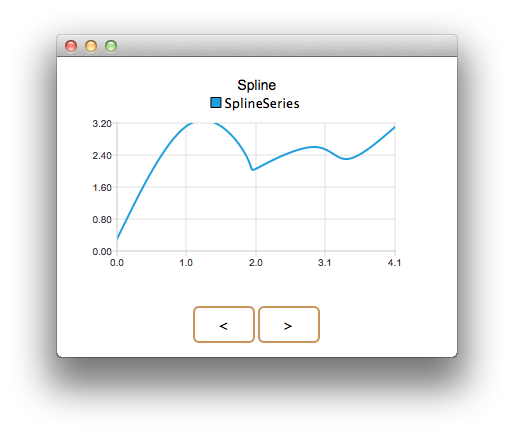
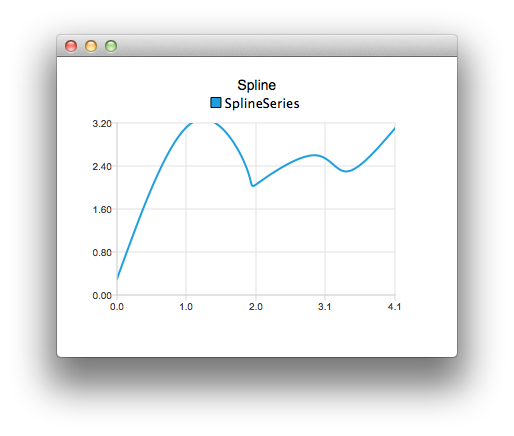
Documentation of QML ChartView, Axis and Legend

diff --git a/demos/qmlchart/qml/qmlchart/main.qml b/demos/qmlchart/qml/qmlchart/main.qml
@@ -28,61 +28,63 @@ Rectangle {
 
     Loader {
         id: loader
-        anchors.top: parent.top
-        anchors.bottom: buttons.top
-        anchors.left: parent.left
-        anchors.right: parent.right
+        anchors.fill: parent
         source: "View" + viewNumber + ".qml";
     }
 
-    Row {
-        id: buttons
-        anchors.bottom: parent.bottom
-        anchors.bottomMargin: 15
-        anchors.horizontalCenter: parent.horizontalCenter
-        spacing: 5
+    Rectangle {
+        id: infoText
+        anchors.centerIn: parent
+        width: parent.width
+        height: 40
+        color: "black"
+        Text {
+            color: "white"
+            anchors.centerIn: parent
+            text: "Use left and right arrow keys to navigate between chart types"
+        }
 
-        Rectangle {
-            height: 35
-            width: 60
-            border.color: "#c8955c"
-            border.width: 2
-            radius: 5
-            Text {
-                anchors.centerIn: parent
-                text: "<"
+        Behavior on opacity {
+            NumberAnimation { duration: 400 }
+        }
+    }
+
+    MouseArea {
+        focus: true
+        anchors.fill: parent
+        onClicked: {
+            if (infoText.opacity > 0) {
+                infoText.opacity = 0.0;
+            } else {
+                nextView();
             }
-            MouseArea {
-                anchors.fill: parent
-                onClicked: {
-                    var i = viewNumber - 1;
-                    if (i <= 0)
-                        viewNumber = 9;
-                    else
-                        viewNumber = i;
+        }
+        Keys.onPressed: {
+            if (infoText.opacity > 0) {
+                infoText.opacity = 0.0;
+            } else {
+                if (event.key == Qt.Key_Left) {
+                    previousView();
+                } else {
+                    nextView();
                 }
             }
         }
-        Rectangle {
-            height: 35
-            width: 60
-            border.color: "#c8955c"
-            border.width: 2
-            radius: 5
-            Text {
-                anchors.centerIn: parent
-                text: ">"
-            }
-            MouseArea {
-                anchors.fill: parent
-                onClicked: {
-                    var i = viewNumber + 1;
-                    if (i > 9)
-                        viewNumber = 1;
-                    else
-                        viewNumber = i;
-                }
-            }
-        }
+    }
+
+    function nextView() {
+        var i = viewNumber + 1;
+        if (i > 9)
+            viewNumber = 1;
+        else
+            viewNumber = i;
+    }
+
+    function previousView() {
+        var i = viewNumber - 1;
+        if (i <= 0)
+            viewNumber = 9;
+        else
+            viewNumber = i;
     }
 }

diff --git a/demos/qmlchart/qml/qmlchart/View5.qml b/demos/qmlchart/qml/qmlchart/View5.qml
@@ -51,6 +51,8 @@ Rectangle {
             XyPoint { x: 2.2; y: 2.9 }
             XyPoint { x: 2.4; y: 2.7 }
             XyPoint { x: 2.67; y: 2.65 }
+    //![2]
         }
     }
+    //![2]
 }

diff --git a/plugins/declarative/declarativescatterseries.cpp b/plugins/declarative/declarativescatterseries.cpp
@@ -28,15 +28,14 @@ QTCOMMERCIALCHART_BEGIN_NAMESPACE
 /*!
     \qmlclass ScatterSeries QScatterSeries
 
-    \section1 Example Usage
+    The following QML shows how to create a chart with two simple scatter series:
+    \snippet ../demos/qmlchart/qml/qmlchart/View5.qml 1
+    \snippet ../demos/qmlchart/qml/qmlchart/View5.qml 2
 
     \beginfloatleft
     \image demos_qmlchart5.png
     \endfloat
     \clearfloat
-
-    The following QML shows how to create a simple scatter chart:
-    \snippet ../demos/qmlchart/qml/qmlchart/View5.qml 1
 */
 
 DeclarativeScatterSeries::DeclarativeScatterSeries(QObject *parent) :

diff --git a/src/axis/qaxis.cpp b/src/axis/qaxis.cpp
@@ -41,6 +41,18 @@ QTCOMMERCIALCHART_BEGIN_NAMESPACE
     There is only one x Axis, however there can be multiple y axes on a ChartView.
     Each chart series can be bound to exactly one Y axis and the shared common X axis.
     Axis can be setup to show axis line with tick marks, grid lines and shades.
+
+    To access Axes you can use ChartView API. For example:
+    \code
+        ChartView {
+            axisX.min: 0
+            axisX.max: 3
+            axisX.ticksCount: 4
+            axisY.min: 0
+            axisY.max: 4
+            // Add a few series...
+        }
+    \endcode
 */
 
 /*!

diff --git a/src/legend/qlegend.cpp b/src/legend/qlegend.cpp
@@ -65,7 +65,7 @@ QTCOMMERCIALCHART_BEGIN_NAMESPACE
     \brief Legend is part of QtCommercial Chart QML API.
 
     Legend is a graphical object, whics displays legend of the chart. Legend state is updated by ChartView, when
-    series have been changed. Legend is referenced via ChartView class. For example:
+    series have been changed. Legend is used via ChartView class. For example:
     \code
         ChartView {
             legend.visible: true

diff --git a/plugins/declarative/declarativechart.cpp b/plugins/declarative/declarativechart.cpp
@@ -34,10 +34,11 @@ QTCOMMERCIALCHART_BEGIN_NAMESPACE
 
     ChartView element is the parent that is responsible for showing different chart series types.
 
-    \section1 Example Usage
+    The following QML shows how to create a simple line chart:
+    \snippet ../demos/qmlchart/qml/qmlchart/View2.qml 1
 
     \beginfloatleft
-    \image demos_qmlchart1.png
+    \image demos_qmlchart2.png
     \endfloat
     \clearfloat
 */

diff --git a/plugins/declarative/declarativelineseries.cpp b/plugins/declarative/declarativelineseries.cpp
@@ -28,8 +28,6 @@ QTCOMMERCIALCHART_BEGIN_NAMESPACE
 /*!
     \qmlclass LineSeries QLineSeries
 
-    \section1 Example Usage
-
     \beginfloatleft
     \image demos_qmlchart2.png
     \endfloat
